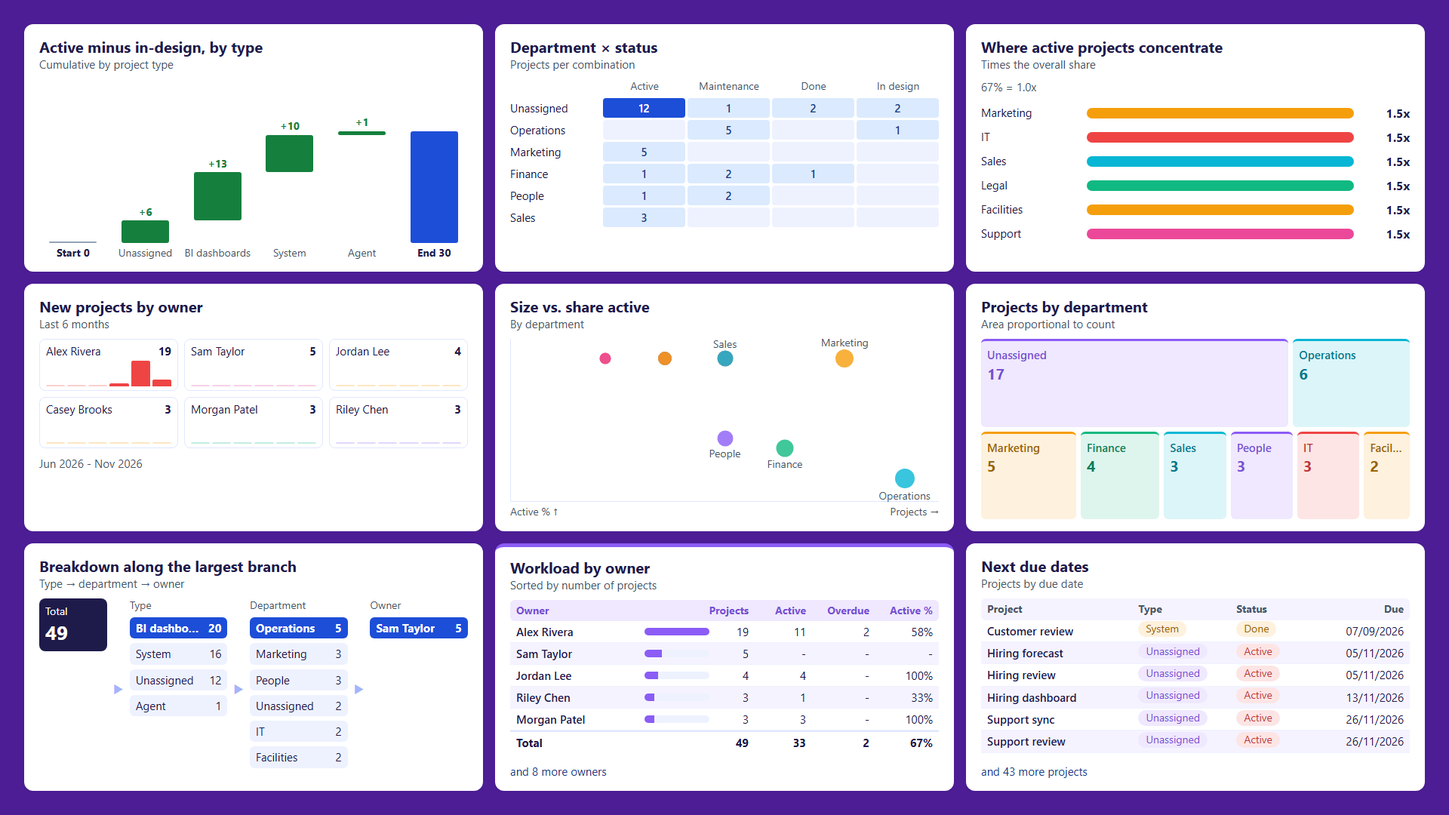
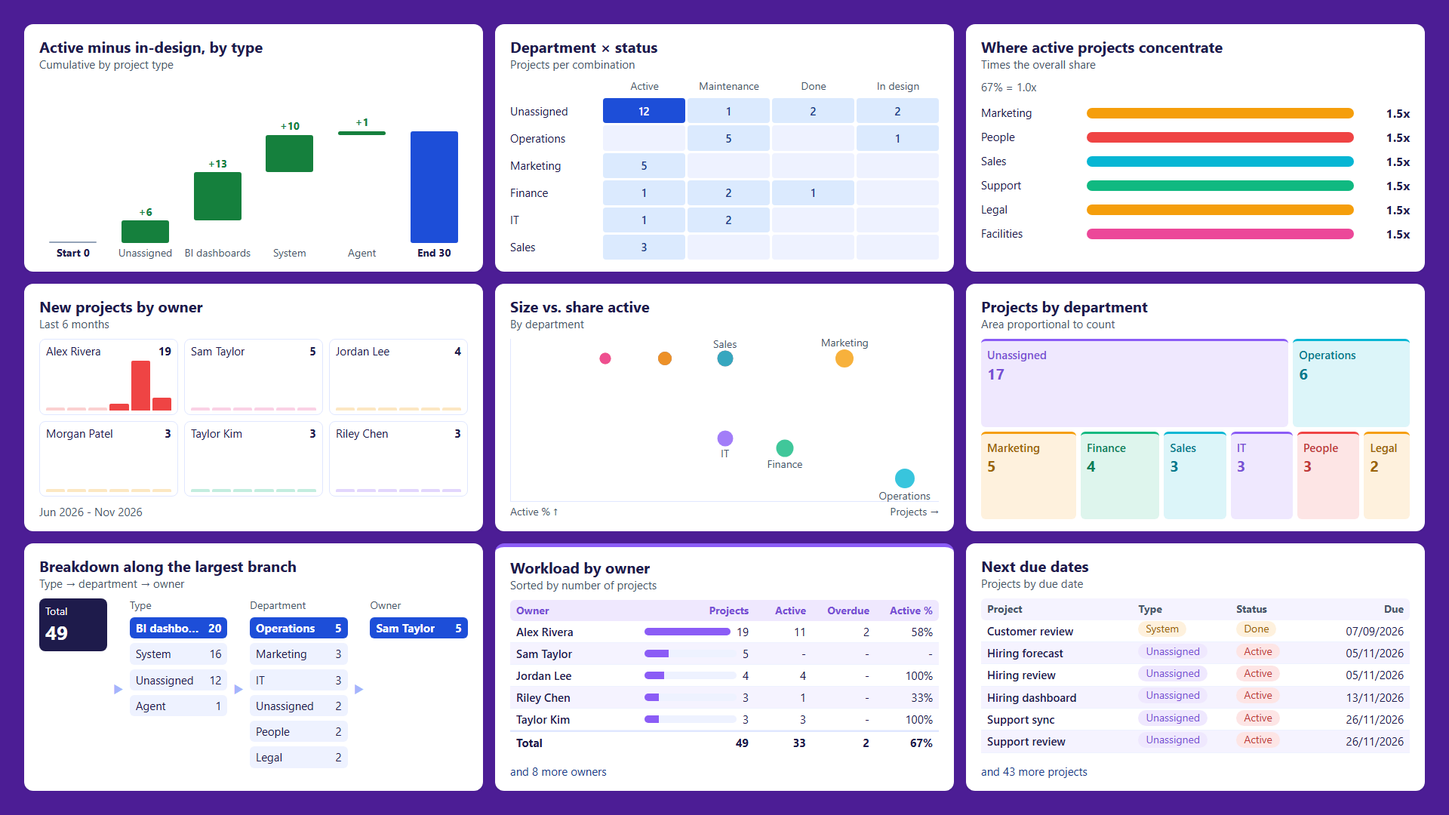
No card with a large empty area: fill gate + builders that stretch (#11)
* No card with a large empty area: fill gate + builders that stretch

- fitjs.py: FIT FAIL when the band under a card's lowest text/fill/border is taller than
  max(40px, 15% of the card); data-fill='free' exempts deliberate empties (empty state,
  background layer); data-bleed bands keep their edge exemption.
- heat_matrix rows and small_multiples panels stretch to the card (flex rows with
  min/max, bars in %); a short last row of panels widens to fill it.
- Example 1: the type donut grows with the card. Example 2: the filter panel shows the
  status and channel mix of the selection under its slicers.
- bridge.py shot captures until the render is stable (15s after reload was not enough).
- design-system must, checklist item, pipeline README; images regenerated.

* Review: wait for a real render after reload (capture grew, then stable); honour retryable bridge errors

---------

diff --git a/tools/pbip-html-pipeline/bridge.py b/tools/pbip-html-pipeline/bridge.py
@@ -3,10 +3,14 @@
 \\\\.\\pipe\\pbi-desktop-bridge-<pid>. Needs Desktop's preview feature "external tool access" (Options > Preview features).
 
   python -I bridge.py status                     -> every Desktop with the bridge: pid, open file, unsaved changes
-  python -I bridge.py reload  [--pid N] [--settle 15]  -> reload the REPORT (PBIR) from disk, then wait for the
-                                                  HTML visuals to render; the live MODEL is NOT reloaded from TMDL
+  python -I bridge.py reload  [--pid N]          -> reload the REPORT (PBIR) from disk, then wait until the active
+                                                  page has rendered (its capture grew and held still);
+                                                  the live MODEL is NOT reloaded from TMDL
                                                   (push measures with the Modeling MCP, or Apply external changes)
   python -I bridge.py shot <page-id> out.png [--pid N] [--scale 1]
+                                                  -> captures until two captures 5s apart are the same size: custom
+                                                  visuals render after the page, and a capture right after a reload
+                                                  (measured: 15s was not always enough) shows empty cards
 Without --pid the Desktop whose open file is <project>.pbip (pipeline.json) is used. Exit 2 = no bridge (fall back to
 Apply external changes + Refresh + a manual screenshot)."""
 import base64, glob, json, os, sys, time
@@ -38,8 +42,10 @@ def call(pid, method, args=None, wait=60):
             out = json.loads(data)
             if "error" in out:
                 err = out["error"]
-                if time.time() < end and "busy" in json.dumps(err).lower():
-                    time.sleep(1)
+                info = err.get("data") or {}
+                # the bridge marks transient states retryable (e.g. CaptureMetadataNotReady right after a reload)
+                if time.time() < end and (info.get("retryable") or "busy" in json.dumps(err).lower()):
+                    time.sleep(max(0.5, (info.get("retryAfterMs") or 1000) / 1000))
                     continue
                 raise RuntimeError(f"{method}: {err}")
             return out["result"]
@@ -68,6 +74,17 @@ def find_pid(project):
     return None
 
 
+def _active_page():
+    """the PBIR active page id of this project (pipeline.json), or None"""
+    try:
+        sys.path.insert(0, os.path.dirname(os.path.abspath(__file__)))
+        from config import REPORT_DIR
+        pj = json.load(open(os.path.join(REPORT_DIR, "definition", "pages", "pages.json"), encoding="utf-8"))
+        return pj.get("activePageName") or (pj.get("pageOrder") or [None])[0]
+    except Exception:
+        return None
+
+
 def _arg(name, default=None):
     return sys.argv[sys.argv.index(name) + 1] if name in sys.argv else default
 
@@ -92,11 +109,35 @@ if __name__ == "__main__":
     if cmd == "reload":
         name = next((m for m in methods if m.startswith("report.reload")), None) or next(m for m in methods if "reload" in m)
         print(name, call(pid, name, {}, wait=120))
-        time.sleep(float(_arg("--settle", 15)))   # a capture right after reload shows empty custom visuals
+        # right after a reload the custom visuals are empty and two empty captures are the same size, so "stable"
+        # alone is not "rendered": wait until the active page's capture has GROWN past the first one and then held
+        # still (or has held still for 4 captures, i.e. it was already rendered), up to ~90s
+        page = _active_page()
+        if not page:
+            time.sleep(float(_arg("--settle", 20)))
+        else:
+            first = prev = None
+            same = 0
+            for _ in range(18):
+                n = len(base64.b64decode(call(pid, "report.snapshot.capture/v1", {"pageId": page, "scale": 1.0}, wait=120)["payload"]))
+                first = first or n
+                same = same + 1 if prev and abs(n - prev) <= 0.01 * prev else 0
+                if (same >= 1 and n > first * 1.05) or same >= 4:
+                    break
+                prev = n
+                time.sleep(5)
+            print(f"rendered: page {page} capture {first} -> {n} bytes")
     elif cmd == "shot":
         page, out = sys.argv[2], sys.argv[3]
-        r = call(pid, "report.snapshot.capture/v1", {"pageId": page, "scale": float(_arg("--scale", 1))}, wait=120)
-        open(out, "wb").write(base64.b64decode(r["payload"]))
-        print(f"{out} ({r.get('mimeType')}) from pid {pid}")
+        prev, png = None, b""
+        for _ in range(12):   # up to ~60s: stop when the render is stable (same PNG size twice, within 1%)
+            r = call(pid, "report.snapshot.capture/v1", {"pageId": page, "scale": float(_arg("--scale", 1))}, wait=120)
+            png = base64.b64decode(r["payload"])
+            if prev is not None and abs(len(png) - prev) <= 0.01 * prev:
+                break
+            prev = len(png)
+            time.sleep(5)
+        open(out, "wb").write(png)
+        print(f"{out} ({r.get('mimeType')}, {len(png)} bytes, stable) from pid {pid}")
     else:
         sys.exit(__doc__)

diff --git a/tools/pbip-html-pipeline/components.py b/tools/pbip-html-pipeline/components.py
@@ -42,7 +42,7 @@ RETURN
     "<div dir='@@dir@@' lang='@@lang@@' style='{CARD};padding:16px 20px;display:flex;flex-direction:column;gap:10px'>"
         & {_head(title, subtitle)}
         & IF ( {is_empty},
-            "<div style='flex:1;display:flex;align-items:center;justify-content:center;font-size:13px;color:{FG2}'>{empty_text}</div>",
+            "<div data-fill='free' style='flex:1;display:flex;align-items:center;justify-content:center;font-size:13px;color:{FG2}'>{empty_text}</div>",
             {body} )
     & "</div>\""""
 
@@ -149,8 +149,8 @@ VAR _hdr =
 VAR _grid =
     CONCATENATEX ( _rows,
         VAR _r = {table}[{row_col}]
-        RETURN "<div style='display:flex;gap:3px;height:26px;flex:none'>"
-            & "<div style='width:120px;flex:none;font-size:12px;line-height:26px;white-space:nowrap;overflow:hidden;text-overflow:ellipsis'>" & {_cat("_r", blank_label)} & "</div>"
+        RETURN "<div style='display:flex;gap:3px;flex:1 1 0;min-height:26px;max-height:64px'>"
+            & "<div style='width:120px;flex:none;align-self:center;font-size:12px;white-space:nowrap;overflow:hidden;text-overflow:ellipsis'>" & {_cat("_r", blank_label)} & "</div>"
             & CONCATENATEX ( _cols,
                 VAR _c = {table}[{col_col}]
                 VAR _v = CALCULATE ( {value}, {table}[{row_col}] = _r, {table}[{col_col}] = _c ) + 0
@@ -161,7 +161,7 @@ VAR _grid =
                 "", [@t], DESC )
             & "</div>",
         "", [@t], DESC )
-""" + _wrap(title, subtitle, "\"<div style='display:flex;flex-direction:column;gap:3px'>\" & _hdr & _grid & \"</div>\"", empty_text)
+""" + _wrap(title, subtitle, "\"<div style='flex:1;min-height:0;display:flex;flex-direction:column;gap:3px'>\" & _hdr & _grid & \"</div>\"", empty_text)
 
 
 # 3 --------------------------------------------------------------- lift bars (key influencers, static)
@@ -212,17 +212,17 @@ VAR _max = MAX ( MAXX ( _vals, [@v] ), 1 )
 VAR _panels =
     CONCATENATEX ( _cats,
         VAR _c = {table}[{category}]
-        RETURN "<div style='box-sizing:border-box;border:1px solid @@border@@;border-radius:8px;padding:5px 8px;display:flex;flex-direction:column;gap:2px;min-width:0'>"
+        RETURN "<div style='box-sizing:border-box;border:1px solid @@border@@;border-radius:8px;padding:5px 8px;display:flex;flex-direction:column;gap:2px;min-width:0;min-height:0;flex:1 1 calc(100% / {cols} - 8px)'>"
             & "<div style='display:flex;justify-content:space-between;gap:6px;font-size:12px'><span style='white-space:nowrap;overflow:hidden;text-overflow:ellipsis'>" & _c & "</span>"
             & "<b style='direction:ltr;unicode-bidi:isolate'>" & [@t] & "</b></div>"
-            & "<div style='display:flex;align-items:flex-end;gap:3px;height:34px;direction:ltr'>"
+            & "<div style='display:flex;align-items:flex-end;gap:3px;flex:1;min-height:34px;direction:ltr'>"
             & CONCATENATEX ( FILTER ( _vals, [cat] = _c ),
-                "<div style='flex:1 1 0;border-radius:2px 2px 0 0;background:" & {"\"@@primary@@\"" if not _mode(colors, "single") else _catcolor(table, category, "_c")} & ";height:" & FORMAT ( MAX ( DIVIDE ( [@v], _max ) * 34, 2 ), "0" ) & "px;opacity:" & IF ( [@v] = 0, "0.25", "1" ) & "'></div>",
+                "<div style='flex:1 1 0;border-radius:2px 2px 0 0;background:" & {"\"@@primary@@\"" if not _mode(colors, "single") else _catcolor(table, category, "_c")} & ";height:" & FORMAT ( MAX ( DIVIDE ( [@v], _max ) * 100, 5 ), "0" ) & "%;opacity:" & IF ( [@v] = 0, "0.25", "1" ) & "'></div>",
                 "", [Value], DESC )
             & "</div></div>",
         "", [@t], DESC )
 """ + _wrap(title, subtitle,
-            f"\"<div style='display:grid;grid-template-columns:repeat({cols},1fr);gap:8px'>\" & _panels & \"</div><div style='font-size:12px;color:{FG2}'>\" & FORMAT ( EOMONTH ( _endM, -{months} ) + 1, \"MMM yyyy\", \"@@locale@@\" ) & \" - \" & FORMAT ( _endM, \"MMM yyyy\", \"@@locale@@\" ) & \"</div>\"",
+            f"\"<div style='flex:1;min-height:0;display:flex;flex-wrap:wrap;align-content:stretch;gap:8px'>\" & _panels & \"</div><div style='font-size:12px;color:{FG2}'>\" & FORMAT ( EOMONTH ( _endM, -{months} ) + 1, \"MMM yyyy\", \"@@locale@@\" ) & \" - \" & FORMAT ( _endM, \"MMM yyyy\", \"@@locale@@\" ) & \"</div>\"",
             empty_text)
 
 

diff --git a/tools/pbip-html-pipeline/fitjs.py b/tools/pbip-html-pipeline/fitjs.py
@@ -1,22 +1,45 @@
 # -*- coding: utf-8 -*-
-"""fitCheck() injected into preview pages: every card iframe must keep SAFE px of slack (gates FIT OK)."""
-SAFE = 8  # px of slack every card keeps at the bottom/sides
+"""fitCheck() injected into preview pages. FIT OK needs every card iframe to pass two checks:
+
+1. Nothing clipped: SAFE px of slack at the bottom and sides. An element marked data-bleed (a full-bleed band that
+   is meant to reach the card edge) is skipped; its children are still checked.
+2. No large empty band: the space between the lowest visible "ink" (text, a filled or bordered box, an svg/img) and
+   the card's bottom padding must stay under max(EMPTY_MIN px, EMPTY_SHARE x card height). A card that leaves half
+   its height blank looks broken - fill it (stretch rows, more rows, a second element) or make the card smaller.
+   Exempt: a card containing an element marked data-fill='free' (background layer, empty-state message)."""
+SAFE = 8            # px of slack every card keeps at the bottom/sides
+EMPTY_SHARE = 0.15  # an empty band taller than 15% of the card fails ...
+EMPTY_MIN = 40      # ... and never below 40px (small cards keep normal breathing room)
 FIT_JS = """
+function _ink(el){
+  if(el.tagName==='svg'||el.tagName==='IMG') return true;
+  for(var i=0;i<el.childNodes.length;i++){var n=el.childNodes[i]; if(n.nodeType===3 && n.textContent.trim()) return true;}
+  var cs=getComputedStyle(el);
+  if(cs.backgroundColor && cs.backgroundColor!=='rgba(0, 0, 0, 0)' && cs.backgroundColor!=='transparent') return true;
+  if(cs.backgroundImage && cs.backgroundImage!=='none') return true;
+  return ['Top','Bottom','Left','Right'].some(function(s){return parseFloat(cs['border'+s+'Width'])>0 && cs['border'+s+'Style']!=='none';});
+}
 function fitCheck(){
-  var SAFE=%d, out=[];
+  var SAFE=%d, SHARE=%s, MINPX=%d, out=[];
   document.querySelectorAll('iframe[data-name]').forEach(function(f){
     var d=f.contentDocument, root=d && d.body && d.body.firstElementChild; if(!root) {out.push(f.dataset.name+': EMPTY');return;}
-    var W=f.clientWidth, H=f.clientHeight, worst=null;
+    var W=f.clientWidth, H=f.clientHeight, worst=null, ink=0;
     root.querySelectorAll('*').forEach(function(el){
       var r=el.getBoundingClientRect(); if(!r.width||!r.height) return;
+      if(!el.closest('svg') || el.tagName==='svg') { if(_ink(el)) ink=Math.max(ink, r.bottom); }
+      if(el.hasAttribute('data-bleed')) return;   // full-bleed decoration (card band); its children are still checked
       var over=Math.max(r.bottom-(H-SAFE), r.right-(W-SAFE), SAFE-r.left);
       if(over>0.5 && (!worst||over>worst.over)) worst={over:over,tag:el.tagName,txt:(el.textContent||'').trim().slice(0,40)};
-      if(el.scrollWidth>el.clientWidth+1 && getComputedStyle(el).whiteSpace!=='nowrap' && getComputedStyle(el).overflow==='visible'){}
     });
     if(root.scrollHeight>H+0.5) out.push(f.dataset.name+': content '+(root.scrollHeight-H)+'px taller than the visual');
     if(worst) out.push(f.dataset.name+': '+Math.round(worst.over)+'px past the safe edge at <'+worst.tag+'> "'+worst.txt+'"');
+    var free=root.matches('[data-fill=free]') || root.querySelector('[data-fill=free]');
+    if(!free && root.children.length){
+      var pad=parseFloat(getComputedStyle(root).paddingBottom)||0, gap=Math.round(H-pad-ink), lim=Math.max(MINPX, SHARE*H);
+      if(gap>lim) out.push(f.dataset.name+': '+gap+'px empty band at the bottom (limit '+Math.round(lim)+'px) - fill the card or make it smaller');
+    }
   });
   var p=document.getElementById('fit'); p.textContent = out.length ? 'FIT FAIL\\n'+out.join('\\n') : 'FIT OK';
 }
 window.addEventListener('load', function(){ setTimeout(fitCheck, 300); });
-""" % SAFE
+""" % (SAFE, EMPTY_SHARE, EMPTY_MIN)

diff --git a/tools/pbip-html-pipeline/measures_example_sales.py b/tools/pbip-html-pipeline/measures_example_sales.py
@@ -79,12 +79,34 @@ kpi("HTML KPI Returns", "Return rate", "[Return rate]", "0.0%", "return", "cat4"
 
 # ---------------------------------------------------------------- filter panel (labels only; native slicers sit under them)
 FILTERS = ["Region", "Category", "Channel"]
-slots = "".join(f"<div style='height:80px;box-sizing:border-box'><div style='height:24px;font-size:13px;font-weight:600'>{f}</div></div>" for f in FILTERS)
+slots = "".join(f"<div style='height:80px;flex:none;box-sizing:border-box'><div style='height:24px;font-size:13px;font-weight:600'>{f}</div></div>" for f in FILTERS)
+
+
+def _mix(col, title):
+    """share of orders per value of `col` in the current selection: label, share bar, %; rows stretch to fill"""
+    color = K._catcolor(T, col, C(col))
+    return (f'"<div style=\'flex:1;min-height:0;display:flex;flex-direction:column;gap:4px\'>'
+            f'<div style=\'flex:none;font-size:13px;font-weight:700;margin-top:6px\'>{title}</div>" & '
+            f'CONCATENATEX ( VALUES ( {C(col)} ), VAR _s = DIVIDE ( [Orders], CALCULATE ( [Orders], ALLSELECTED ( {C(col)} ) ) ) RETURN '
+            f'"<div style=\'flex:1 1 0;min-height:24px;max-height:52px;display:flex;align-items:center;gap:8px\'>'
+            f'<div style=\'width:92px;flex:none;font-size:12px;white-space:nowrap;overflow:hidden;text-overflow:ellipsis\'>" & {C(col)} & "</div>'
+            f'<div style=\'flex:1;height:10px;border-radius:5px;background:@@track@@;overflow:hidden;display:flex\'>'
+            f'<div style=\'flex:none;width:" & FORMAT ( _s * 100, "0.0" ) & "%;background:" & {color} & "\'></div></div>'
+            f'<div style=\'width:44px;flex:none;font-size:12px;font-weight:700;text-align:@@end@@;direction:ltr;unicode-bidi:isolate\'>" & FORMAT ( _s, "0%" ) & "</div></div>", '
+            f'"", [Orders], DESC, {C(col)}, ASC ) & "</div>"')
+
+
+# below the slicers the panel shows what the selection is made of, so the tall panel is not an empty column
 add("HTML Filter Panel", f"""
 "<div dir='@@dir@@' lang='@@lang@@' style='{CARD};padding:16px;display:flex;flex-direction:column'>"
     & "<div style='height:64px;flex:none'><div style='font-size:16px;font-weight:700'>Filters</div>"
     & "<div style='font-size:12px;color:{FG2}'>Every selection filters the page</div></div>"
     & "{slots}"
+    & "<div style='flex:1;min-height:0;display:flex;flex-direction:column;gap:8px;border-top:1px solid @@border@@;padding-top:8px'>"
+        & "<div style='flex:none;font-size:14px;font-weight:700'>In this selection</div>"
+        & {_mix("Status", "Order status")}
+        & {_mix("Channel", "Channel")}
+    & "</div>"
 & "</div>\"""", "HTML")
 
 # ---------------------------------------------------------------- charts and table from the kit's builders

diff --git a/tools/pbip-html-pipeline/measures_example_projects.py b/tools/pbip-html-pipeline/measures_example_projects.py
@@ -407,8 +407,8 @@ VAR _legend =
 RETURN
     "<div dir='@@dir@@' lang='@@lang@@' style='{CARD};padding:20px 24px;display:flex;flex-direction:column;gap:12px'>"
         & "<div><div style='font-size:16px;font-weight:700'>פרויקטים לפי סוג</div><div style='font-size:12px;color:{FG2}'>מערכות, מסכי ניהול ו-" & LRI & "BI" & PDI & ", סוכנים</div></div>"
-        & "<div style='display:flex;align-items:center;gap:28px;flex:1'>"
-            & "<svg width='180' height='180' viewBox='0 0 180 180' style='flex:none'>"
+        & "<div style='display:flex;align-items:center;gap:28px;flex:1;min-height:0'>"
+            & "<svg viewBox='0 0 180 180' style='flex:none;height:100%;max-height:260px;aspect-ratio:1/1'>"
                 & "<circle cx='90' cy='90' r='" & _R & "' fill='none' stroke='{TRACK}' stroke-width='24'/>" & _segs
                 & "<text x='90' y='92' text-anchor='middle' style='font-size:30px;font-weight:700;fill:@@fg@@;{FONT}'>" & _tot & "</text>"
                 & "<text x='90' y='114' text-anchor='middle' style='font-size:12px;fill:{FG2};{FONT}'>פרויקטים</text>"

diff --git a/tools/pbip-html-pipeline/README.md b/tools/pbip-html-pipeline/README.md
@@ -15,7 +15,7 @@ python -I gen_query.py q_all.dax                         # 1. DEFINE every measu
 powershell -File runq.ps1 -QueryFile q_all.dax -OutFile r_all.json   # 2. run it on the open Desktop model (port auto)
 python -I regress.py r_all.json                          # 3. which cards changed vs the last version (byte compare)
 python -I gen_preview.py r_all.json preview.html         # 4. exact-size preview of every card
-node fitcheck.mjs preview.html --shot full.png           # 5. GATE: FIT OK + CONTRAST OK (headless Edge, no npm)
+node fitcheck.mjs preview.html --shot full.png           # 5. GATE: FIT OK (no clipping, no empty band) + CONTRAST OK (headless Edge, no npm)
 python -I stress.py                                      # 6. GATE: 6 filter scenarios (all, one status, one owner, blanks, empty)
 python -I versions.py snapshot "what changed" --fit "FIT OK" --results r_all.json --shot full.png   # 7. version
 python -I gen_pbip.py                                    # 8. write TMDL + visual.json (padding 0, palette slicers)
@@ -54,7 +54,7 @@ Gate every combination you ship: e.g. `DASH_DIR=ltr DASH_PALETTE=ocean` and `DAS
 | `measures_example_sales.py` + `make_sales_data.py` | Example 2: an English LTR sales dashboard on invented data, built only from the builders (icon KPIs, treemap, heat matrix, small multiples, table, lift bars) + HTML filter panel over native slicers. |
 | `components.py` | Parameterized card builders: `kpi_card` (icon required),  `waterfall`, `heat_matrix`, `lift_bars`, `small_multiples`, `scatter`, `treemap_rows`, `decomp_static`, `data_table` (column kinds text / number / percent / date / bar / pill, totals row, "and N more" tooltip). Charts take `colors="category"` (stable color per category value: alphabetical rank → `cat1..cat6`); `accent(expr, "cat2")` adds a colored top band. Each returns a DAX expression for `add(...)`; titles, empty text and `blank_label` are arguments, so they work in any language. Designed and gated at 520-640 × 320-400. |
 | `component_lab_example.py` | Binds every builder to a model, evaluates them on the open Desktop model and renders a gate page (`node fitcheck.mjs lab.html`). Optional DAX filter argument for empty/filtered states; `LAB_COLORS=category` colors every chart per category; `LAB_FROM=results.json` renders saved (e.g. anonymized) results without querying. |
-| `fitjs.py` | The shared `fitCheck()` script injected into preview and lab pages. |
+| `fitjs.py` | The shared `fitCheck()` script injected into preview and lab pages: nothing past the 8px safe edge (`data-bleed` bands excepted) and **no empty band** at the bottom of a card larger than max(40px, 15% of its height) (`data-fill='free'` excepted). |
 | `labels.py` | UI string translation (Hebrew authored → English) with masking of DAX data literals and model references; status display names. |
 | `palette.py` (brand + theme) | `DASH_PRIMARY` / `DASH_ACCENT` / `DASH_DARK` derive a palette named `brand` (text tokens pushed to WCAG 4.5:1, `strong` fill safe for white text). `python -I palette.py theme out.json` writes the active palette as a report theme (View → Themes → Browse). |
 | `palette.py` | Color tokens for `ocean` (light), `midnight` (dark), `berry` (colorful). Every palette defines every token, including `*_text` variants chosen for WCAG 4.5:1 on their soft backgrounds. Switch: `DASH_PALETTE=midnight`. Page background, preview and slicer colors follow the palette. |

diff --git a/reference/build-workflow.md b/reference/build-workflow.md
@@ -24,7 +24,7 @@ When they are available the loop needs no clicks and no manual screenshots. Each
 | Measures into the live model | **Power BI Modeling MCP** `measure_operations` Create/Update | applied at once, no Apply, no Refresh; a batch is one transaction | caught a measure named like a column (`Units`) and rolled the whole batch back - the file route only fails inside Desktop |
 | Report files into Desktop | `bridge.py reload` (`file.reload/v1`) | reloads the PBIR from disk, ~10s, no click | **does not reload the model**: TMDL written to disk stays out of the live model (cards show "Something's wrong with one or more fields") - push measures with the MCP first, or use Apply external changes |
 | Validate PBIR | `powerbi-report-author validate` (`@microsoft/powerbi-report-authoring-cli`, Node) | schema + layout diagnostics | found a real bug: a new page is 1280×720 unless the writer sets 1920×1080. Its slicer-height error (40 < 48px) is a false positive when padding is 0 - Desktop rendered the 40px slicer correctly; Desktop wins |
-| Screenshot | `bridge.py shot <page-id>` (`report.snapshot.capture/v1`) | real Desktop render as PNG, ~8s | right after a reload the HTML visuals are still empty - wait (`--settle`, default 15s) |
+| Screenshot | `bridge.py shot <page-id>` (`report.snapshot.capture/v1`) | real Desktop render as PNG, ~8s | right after a reload the bridge first answers `CaptureMetadataNotReady` (retryable), then returns empty cards (an empty capture was ~15 KB, the rendered page ~200 KB), and a fixed 15s wait was not always enough - `reload` waits until the capture has grown and held still, and `shot` until it is stable |
 | Gate the HTML | `runq.ps1` → preview → `fitcheck.mjs` (unchanged) | evaluates every card to files | keep it: the MCP's DAX results come back inline, and HTML cards are kilobytes each |
 
 Safety with the Modeling MCP:

diff --git a/reference/design-system.md b/reference/design-system.md
@@ -18,6 +18,7 @@ Everything on the page is HTML Content except the slicers (AGENTS.md, "What this
 
 - Rows are fixed-height; the number of rows comes from the frame, not from the data: `rows = floor((H - padding - header - footer - 8) / rowPitch)`.
 - **Must:** every card keeps 8px of slack at the bottom and sides. The pipeline's exact-size fit check renders each measure in an iframe of the visual's exact size and fails on any element past `edge - 8px` or a root taller than the frame. A full-page screenshot is not enough: cards that look fine overflow by 2-30px.
+- **Must: no card with a large empty area.** Content fills the card: below the lowest text, bar or box, at most max(40px, 15% of the card height) may stay blank. A card that is half empty looks broken. Fix it in this order: (1) let the content stretch - rows `flex:1 1 0` with a min and max height instead of a fixed height, charts sized in % of a `flex:1` area, an svg at `height:100%` with `aspect-ratio`; (2) show more of the data (more rows, a second view); (3) make the card smaller and give the space to a neighbour. A tall panel (e.g. a filter column) gets useful content under its controls - such as what the current selection is made of. A short last row in a grid of panels widens to fill the row (`flex-wrap` with `flex:1 1 calc(100%/cols - gap)`). The fit check enforces the bottom band; the deliberate exceptions are marked `data-fill='free'` (the background layer, an empty-state message).
 - Gate every combination you ship (direction × language × palette), and every filter state (see §6).
 
 ## 3. Type scale

diff --git a/checklists/validation.md b/checklists/validation.md
@@ -5,7 +5,8 @@ Run this in the real target environment. Mark each item Pass / Fail / N/A. Until
 ## 0. Fit (before writing the PBIP, then in Desktop) - see `../reference/design-system.md`
 
 - [ ] Base theme padding read; every HTML visual and panel slicer has padding 0 + chrome off in `visual.json`.
-- [ ] Exact-size preview fit check prints `FIT OK` (8px slack on every card).
+- [ ] Exact-size preview fit check prints `FIT OK` (8px slack on every card, no large empty band).
+- [ ] No card has a large empty area: the fit check passes its empty-band test, and in the Desktop screenshot every card is filled to its bottom (rows stretch, charts grow, tall panels carry useful content).
 - [ ] Font sizes meet the 1080p scale (body ≥15px, captions ≥13px) - or the 720p equivalent.
 - [ ] After Apply external changes + Home → Refresh: screenshot; no card clipped, every title on one line, Hebrew right-aligned in every card.
 - [ ] "ועוד N" ("and N more") lines carry a hover tooltip with the hidden items.
